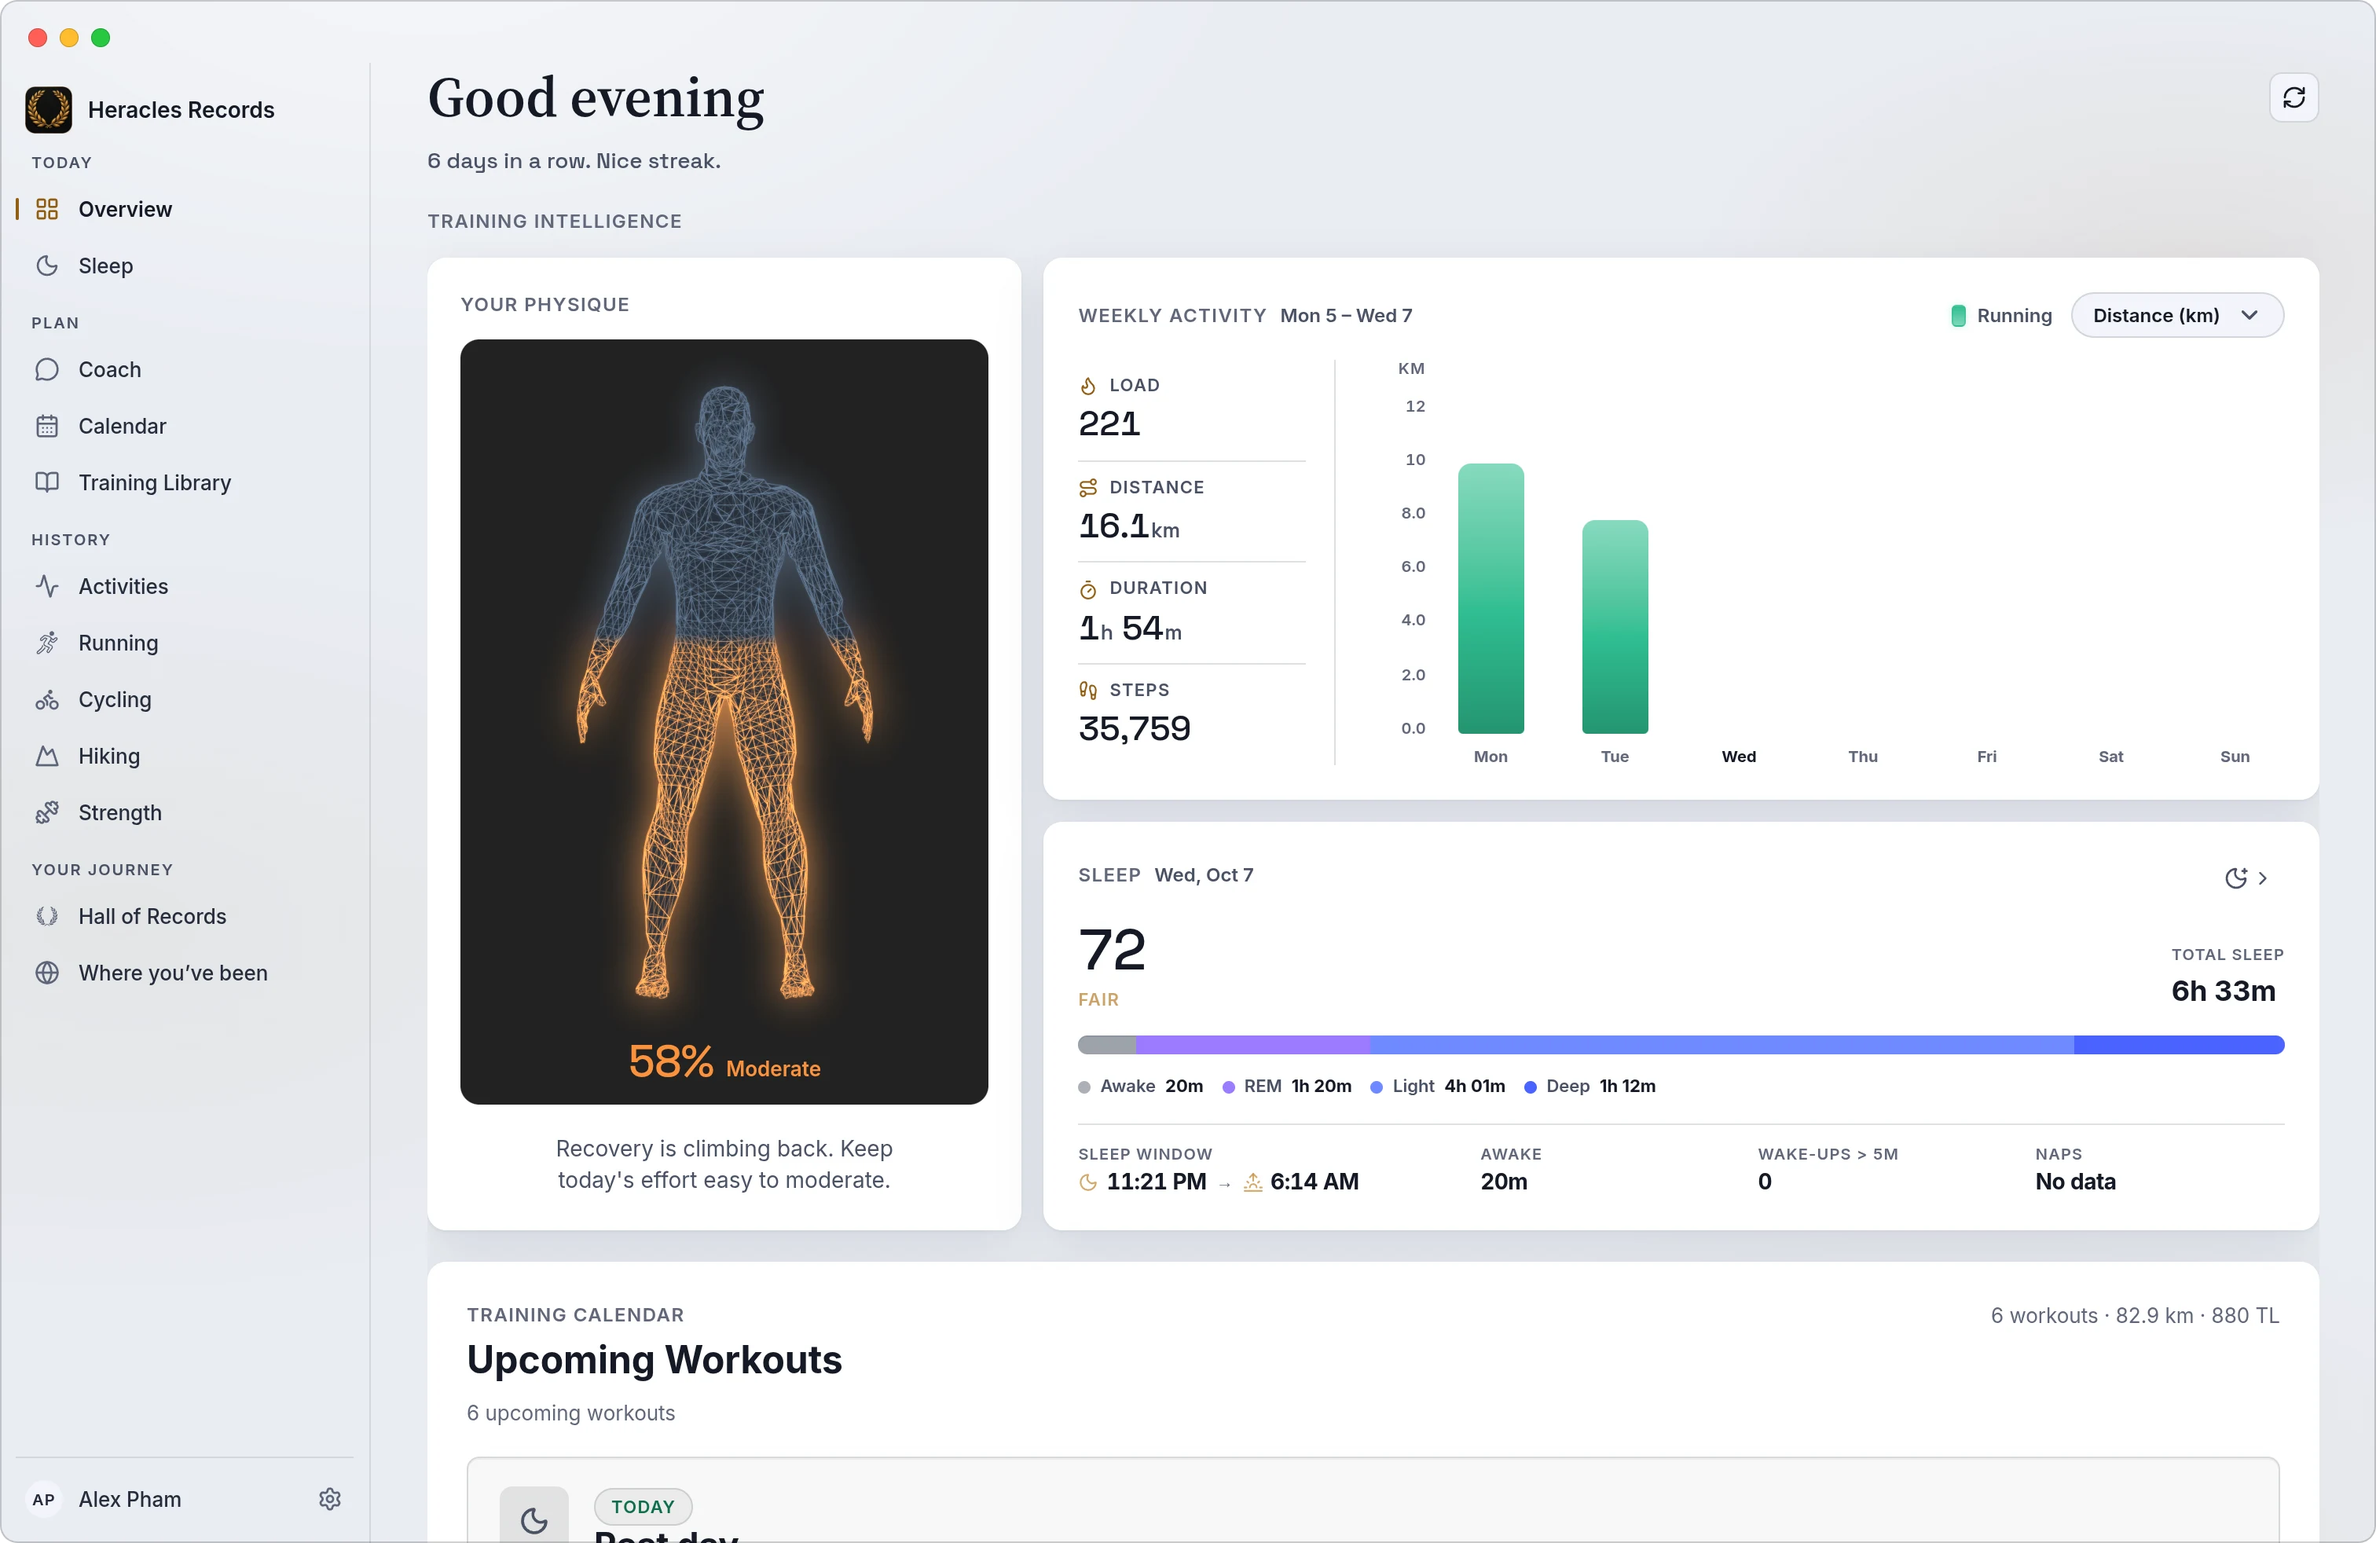
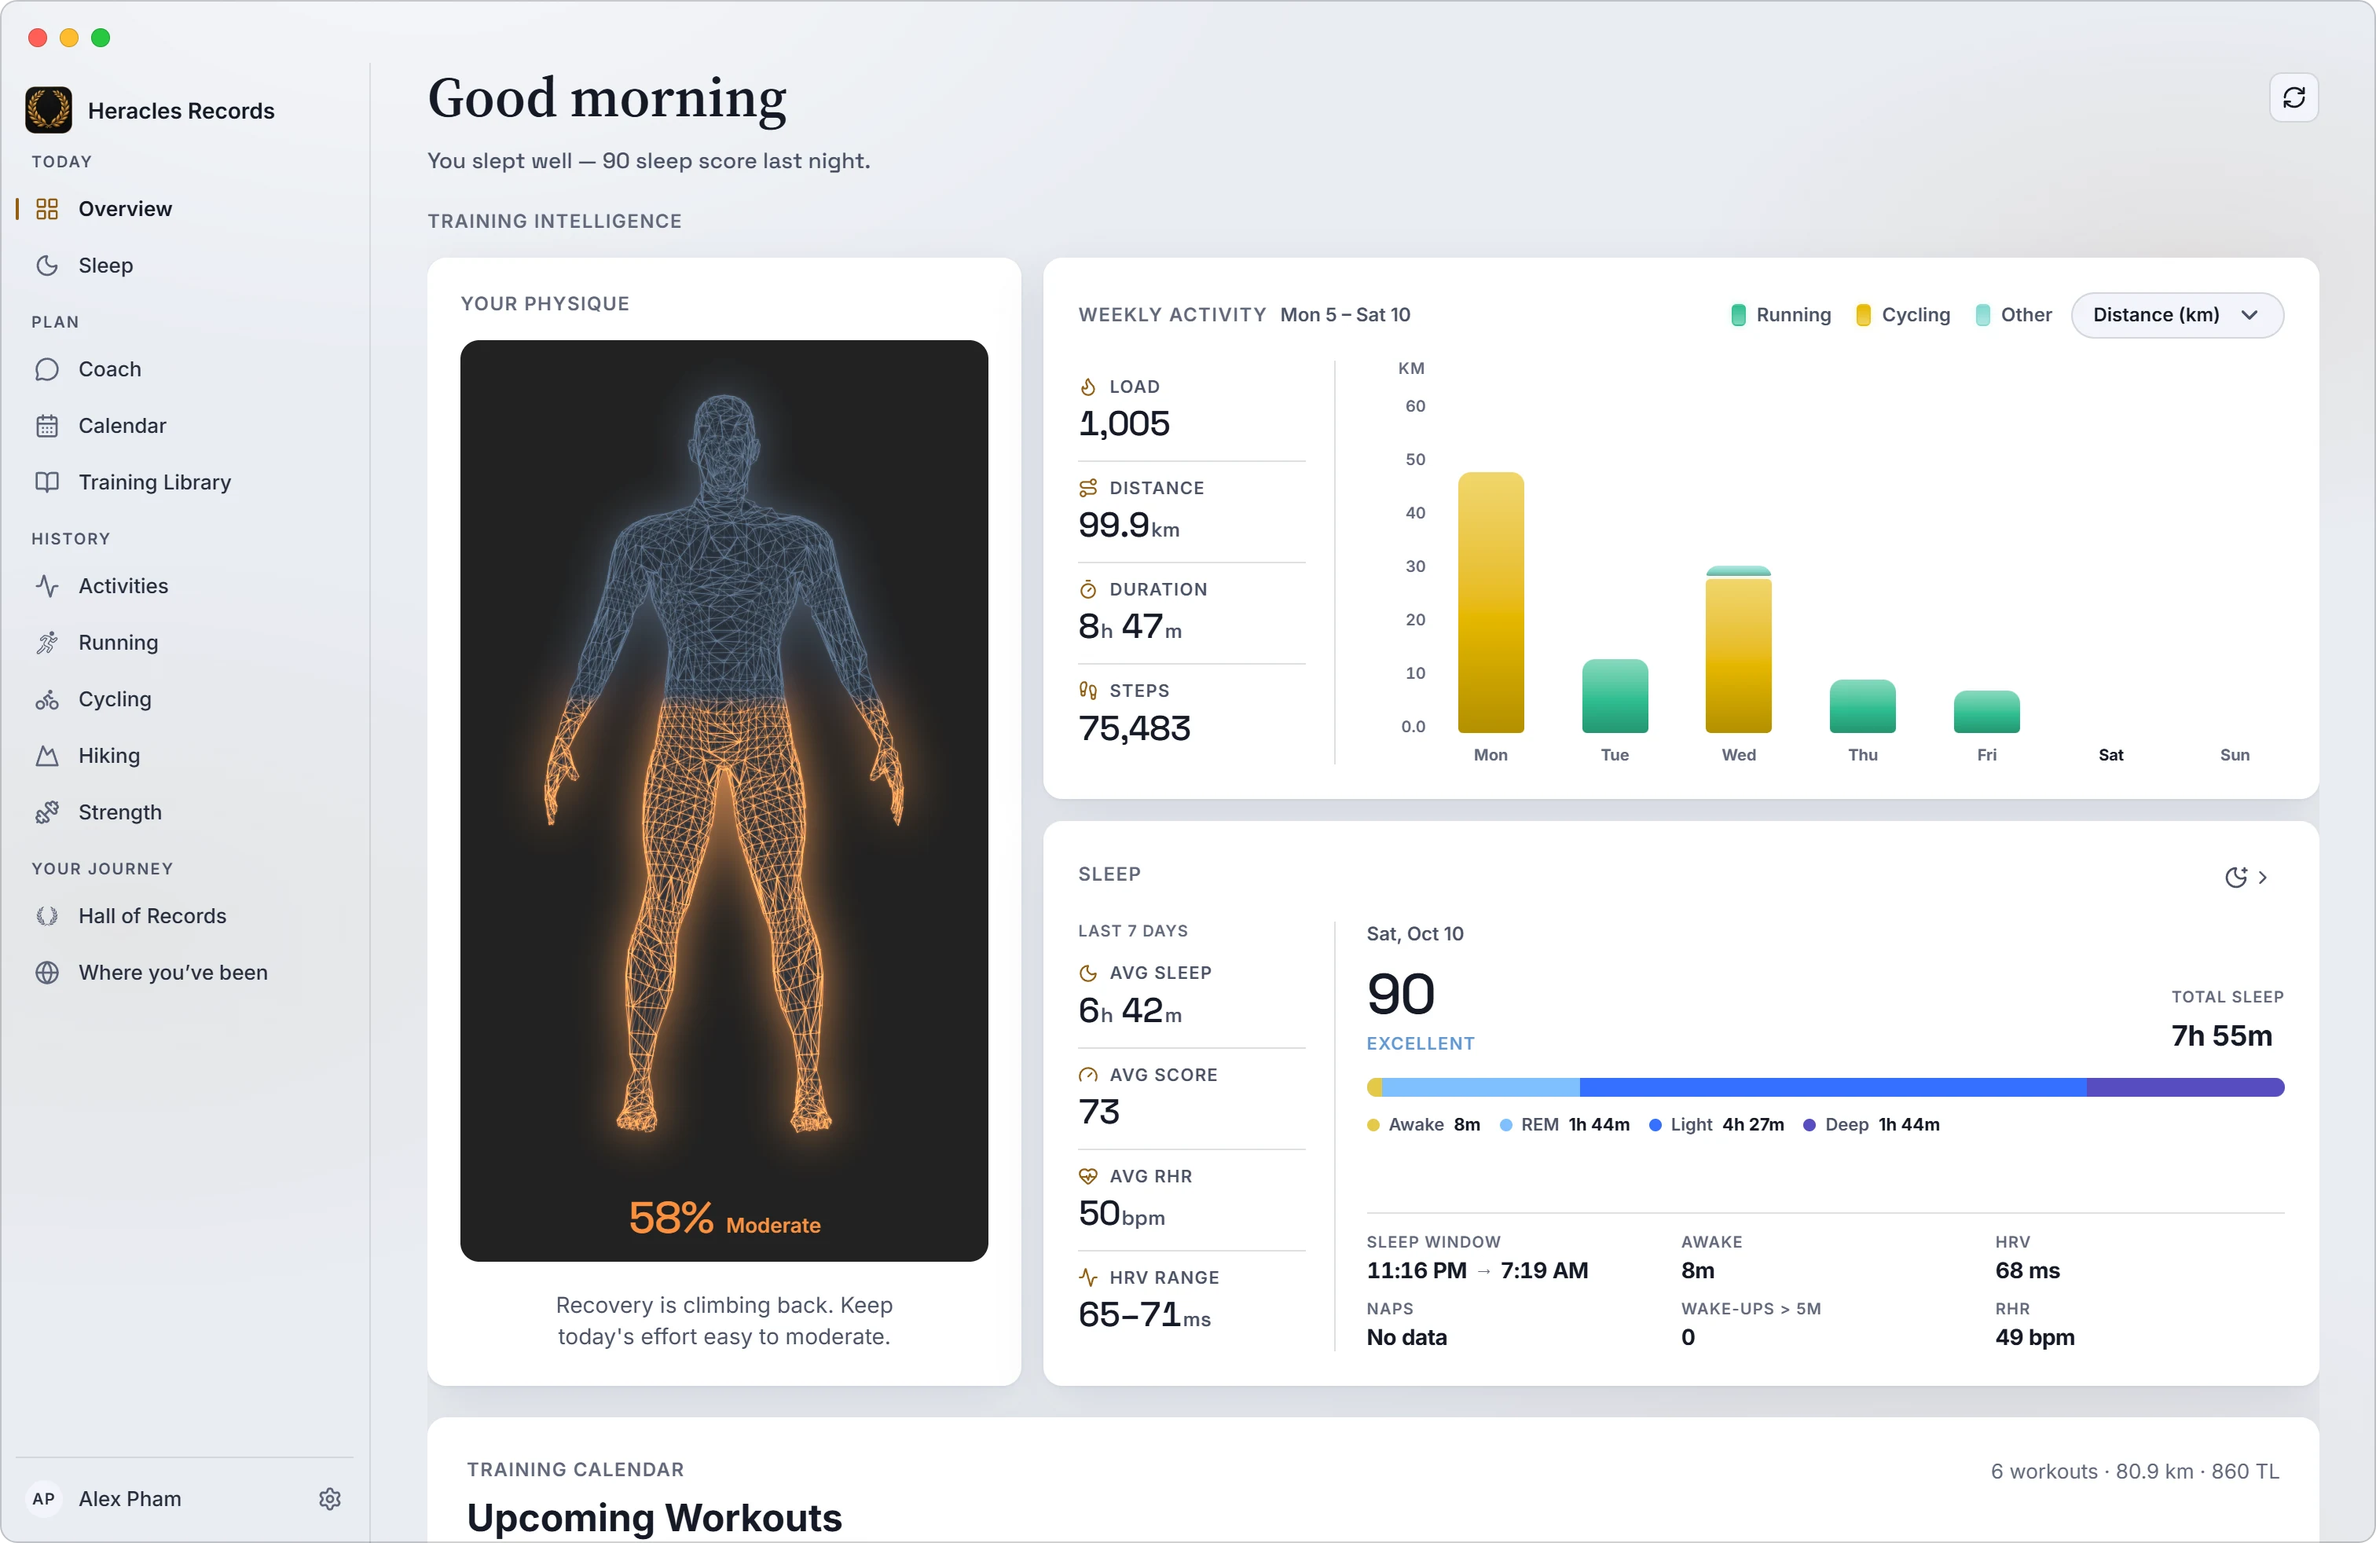
chore: release v1.1.0
Changelog for 1.1.0, reshot screenshots (Overview, Coach, Settings,
appearance pair, auto analysis), a Languages section on the website's
home page, and the version bump.

diff --git a/scripts/screenshots/demoHandlers.ts b/scripts/screenshots/demoHandlers.ts
@@ -196,8 +196,8 @@ export function demoHandlers(): Record<string, unknown> {
       const wanted = new Set(dates);
       return { dayList: metrics().filter((m) => wanted.size === 0 || wanted.has(m.happenDay)), weekList: [] };
     },
-    getAppInfo: async () => ({ version: "1.0.0", userDataPath: "~/Library/Application Support/heracles-records" }),
-    getAppUpdateStatus: async () => ({ supported: true, currentVersion: "1.0.0", status: "idle", autoCheck: true, autoDownload: false }),
+    getAppInfo: async () => ({ version: "1.1.0", userDataPath: "~/Library/Application Support/heracles-records" }),
+    getAppUpdateStatus: async () => ({ supported: true, currentVersion: "1.1.0", status: "idle", autoCheck: true, autoDownload: false }),
     isWindowFullscreen: async () => false,
     setWindowBackground: async () => {},
     getHevyStatus: async () => ({ connected: false, includeWarmups: false }),

diff --git a/CHANGELOG.md b/CHANGELOG.md
@@ -7,10 +7,18 @@ and this project adheres to [Semantic Versioning](https://semver.org/spec/v2.0.0
 
 ## [Unreleased]
 
+## [1.1.0] - 2026-10-10
+
 ### What's new
 
-- **Coach** — searches the web when a question needs it: a race's date, course and cut-offs, an event's weather, anything your data does not hold. It names the pages it used. Off until you switch on Web for a conversation, under Permissions in the AI chip's sheet. A local model cannot search.
-- **The app in thirteen languages** — English, Vietnamese, Japanese, Korean, Simplified Chinese, Spanish, Brazilian Portuguese, French, German, Italian, Russian, Indonesian and Thai, chosen with a flag under Settings → Appearance → Language. Every screen, Coach included, and the app's own messages and dialogs are translated; dates and numbers follow the language. Coach still answers in the language you write to it, and the names the app gives what it saves to COROS (a step called Warm Up) stay in English, as your watch shows them.
+- **Multi languages supported**  In your language, on every screen. Heracles Records now speaks 13 languages, pick one under Settings: English, Vietnamese, Japanese, Korean, Simplified Chinese, Spanish, Brazilian Portuguese, French, German, Italian, Russian, Indonesian and Thai.
+- **Coach** - can search the web for things your data does not hold, such as a race's course and cut-offs, and names the pages it used. It is off until you switch on Web for a conversation. What a conversation may read now sits under Permissions in its AI sheet.
+- **Overview** - the Sleep card shows the past seven days, and upcoming workouts list today and tomorrow in full.
+
+### Fixed
+
+- Coach's plan outline lists every session of a week, and a library workout goes into a plan or the calendar correctly.
+- Improve app performance and stability.
 
 ## [1.0.3] - 2026-10-09
 
